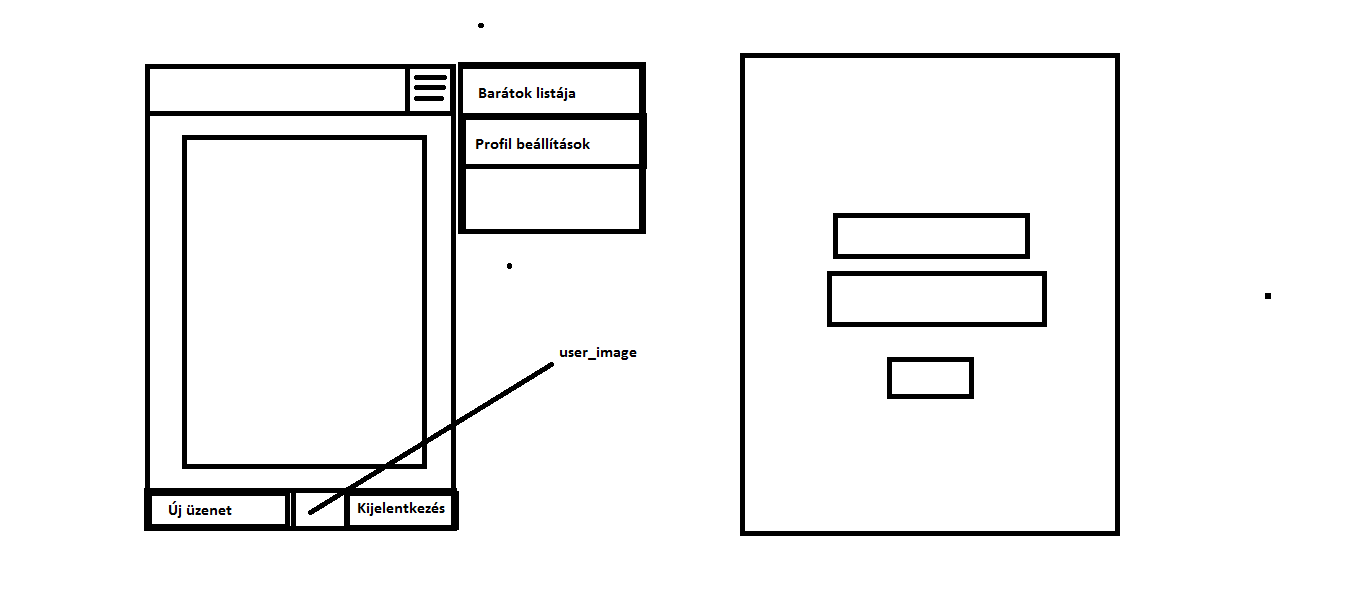
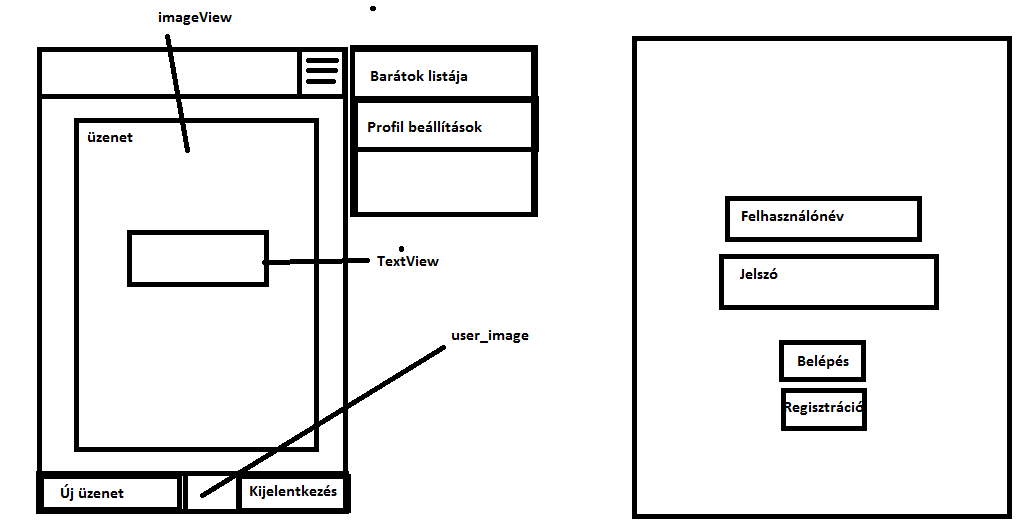
MessageActivity

Changed region(s): [[0.0312, 0.0, 0.999, 0.9944]]

diff --git a/BubbleChatApp/app/src/main/java/bubblechatappteam/bubblechatapp/MessageActivity.java b/BubbleChatApp/app/src/main/java/bubblechatappteam/bubblechatapp/MessageActivity.java
@@ -1,18 +1,28 @@
 package bubblechatappteam.bubblechatapp;
 
-import android.support.v7.app.ActionBarActivity;
 import android.os.Bundle;
+import android.support.v7.app.ActionBarActivity;
 import android.util.Log;
 import android.view.Menu;
 import android.view.MenuItem;
+import android.widget.ImageView;
 
+/**
+ * Created by gerybravo on 2015.11.21..
+ */
+public class MessageActivity extends ActionBarActivity {
 
-public class MainActivity extends ActionBarActivity {
+    private ImageView bubble, profileMini;
 
     @Override
     protected void onCreate(Bundle savedInstanceState) {
         super.onCreate(savedInstanceState);
         setContentView(R.layout.message_activity);
+        bubble = (ImageView) findViewById(R.id.ivBubble);
+        profileMini = (ImageView) findViewById(R.id.ivProfilePicMini);
+
+        bubble.setImageResource(R.drawable.bubble);
+        profileMini.setImageResource(R.drawable.blank_profile);
     }
 
     @Override
@@ -33,7 +43,7 @@ public class MainActivity extends ActionBarActivity {
         switch (id)
         {
             case R.id.action_friend_list:
-                Log.d("MenuItem", "action_friend_list");
+                Log.d("MenuItem","action_friend_list");
                 break;
             case R.id.action_profile:
                 Log.d("MenuItem","action_profile");
